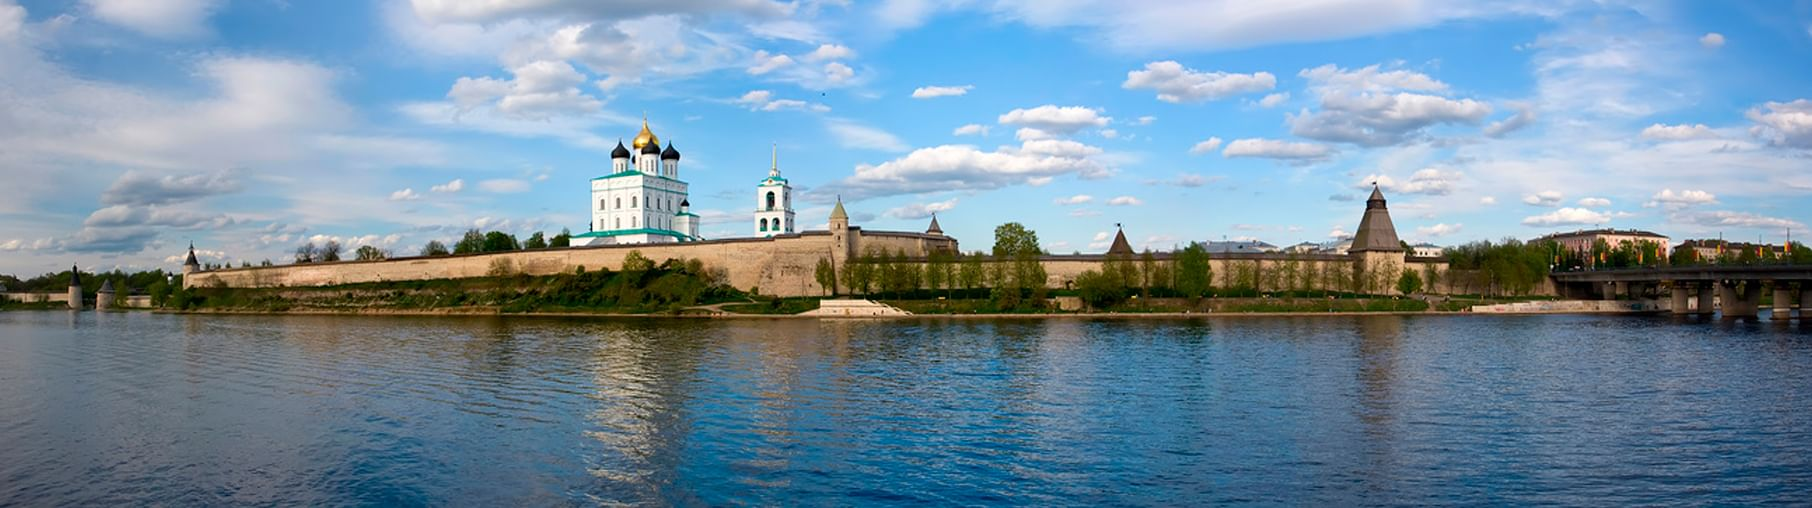
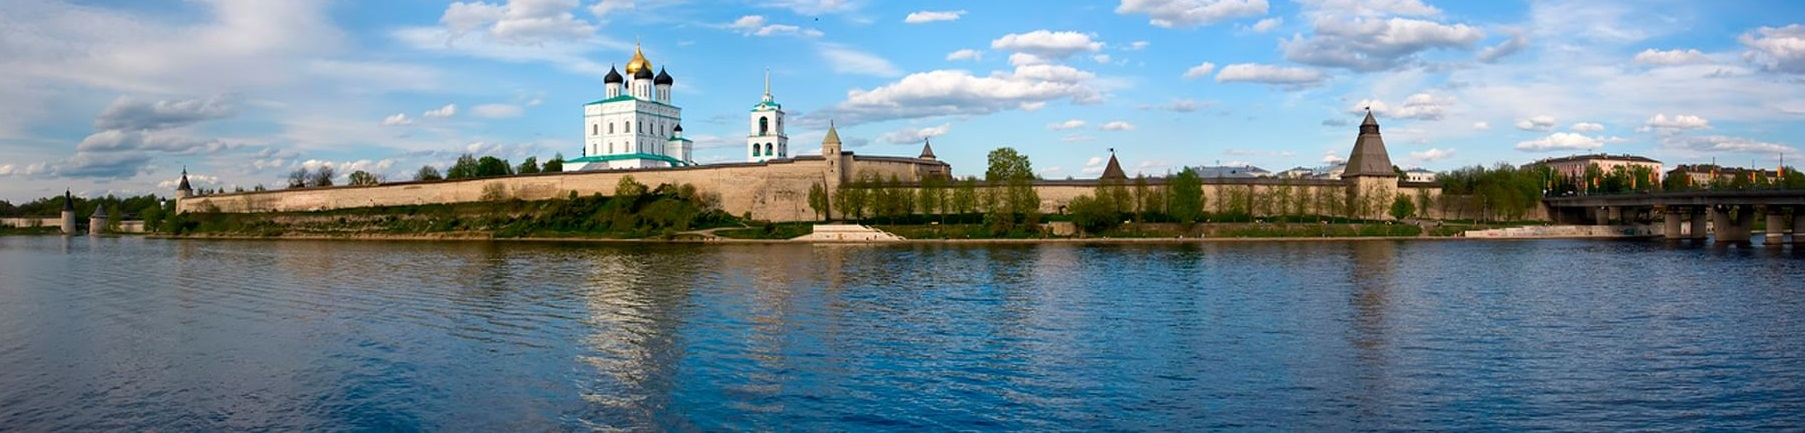
15

diff --git a/people.html b/people.html
@@ -146,7 +146,6 @@
                                             <div class="w-100 mt-auto">
                                                 <span class="link-underline">Княгиня Ольга</span><br>
                                                 <span class="badge bg-warning me-2"><i class="bx bxs-circle me-2 small fw-bold"></i>Исторические деятели</span><span class="badge bg-success"><i class="bx bxs-circle me-2 small fw-bold"></i>Святые</span>
-                                                
                                             </div>
                                         </div>
                                     </div>
@@ -162,7 +161,6 @@
                                             <div class="w-100 mt-auto">
                                                 <span class="link-underline">Князь Александр Невский</span><br>
                                                 <span class="badge bg-warning me-2"><i class="bx bxs-circle me-2 small fw-bold"></i>Исторические деятели</span><span class="badge bg-success"><i class="bx bxs-circle me-2 small fw-bold"></i>Святые</span>
-                                                
                                             </div>
                                         </div>
                                     </div>
@@ -178,7 +176,6 @@
                                             <div class="w-100 mt-auto">
                                                 <span class="link-underline">Князь Довмонт-Тимофей</span><br>
                                                 <span class="badge bg-warning me-2"><i class="bx bxs-circle me-2 small fw-bold"></i>Исторические деятели</span><span class="badge bg-success"><i class="bx bxs-circle me-2 small fw-bold"></i>Святые</span>
-                                                
                                             </div>
                                         </div>
                                     </div>
@@ -194,7 +191,6 @@
                                             <div class="w-100 mt-auto">
                                                 <span class="link-underline">М. И. Голенищев-Кутузов</span><br>
                                                 <span class="badge bg-warning me-2"><i class="bx bxs-circle me-2 small fw-bold"></i>Исторические деятели</span>
-                                                
                                             </div>
                                         </div>
                                     </div>
@@ -210,7 +206,6 @@
                                             <div class="w-100 mt-auto">
                                                 <span class="link-underline">В. М. Брадис</span><br>
                                                 <span class="badge bg-info me-2"><i class="bx bxs-circle me-2 small fw-bold"></i>Ученые</span>
-                                                
                                             </div>
                                         </div>
                                     </div>
@@ -226,7 +221,6 @@
                                             <div class="w-100 mt-auto">
                                                 <span class="link-underline">Н. А. Римский-Корсаков</span><br>
                                                 <span class="badge bg-red me-2"><i class="bx bxs-circle me-2 small fw-bold"></i>Композиторы</span>
-                                                
                                             </div>
                                         </div>
                                     </div>
@@ -242,7 +236,6 @@
                                             <div class="w-100 mt-auto">
                                                 <span class="link-underline">М. П. Мусоргский</span><br>
                                                 <span class="badge bg-red me-2"><i class="bx bxs-circle me-2 small fw-bold"></i>Композиторы</span>
-                                                
                                             </div>
                                         </div>
                                     </div>
@@ -258,7 +251,6 @@
                                             <div class="w-100 mt-auto">
                                                 <span class="link-underline">С. В. Федоров</span><br>
                                                 <span class="badge bg-primary me-2"><i class="bx bxs-circle me-2 small fw-bold"></i>Спортсмены</span>
-                                                
                                             </div>
                                         </div>
                                     </div>

diff --git a/assets/css/style.css b/assets/css/style.css
@@ -1787,11 +1787,11 @@ Blog
   }
 
 .hero-inner {
-  background: url("../img/28.jpg") top center;
+  background: url("../img/38.jpg") top center;
 }
 
 .hero-inner-sights {
-  background: url("../img/34.jpg") top center;
+  background: url("../img/31.jpg") top center;
 }
 
 .hero-inner-nature {
